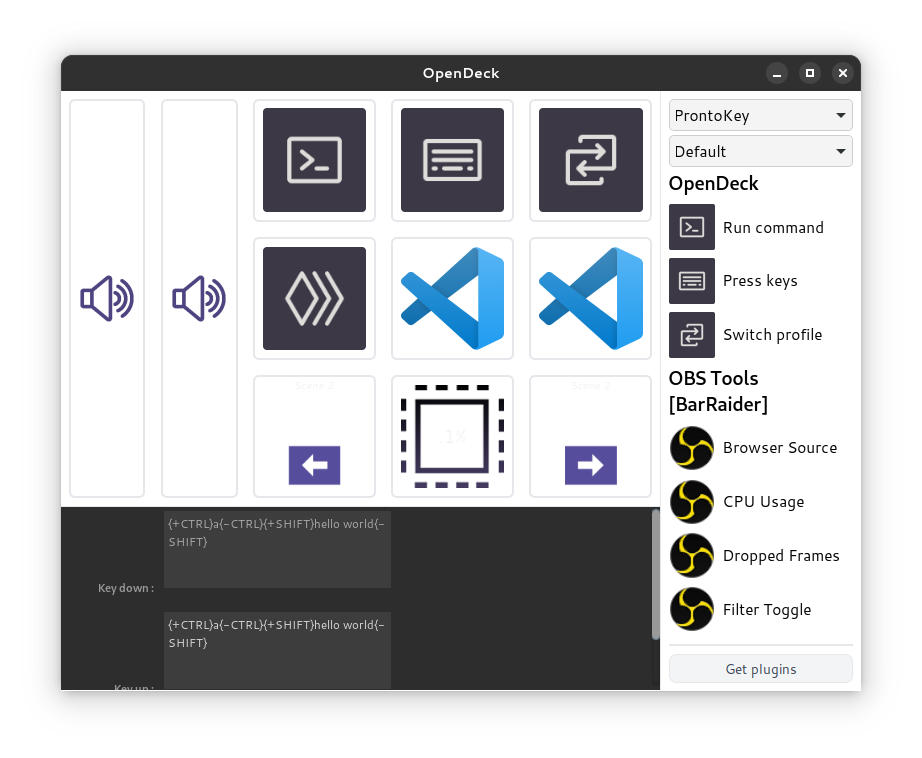
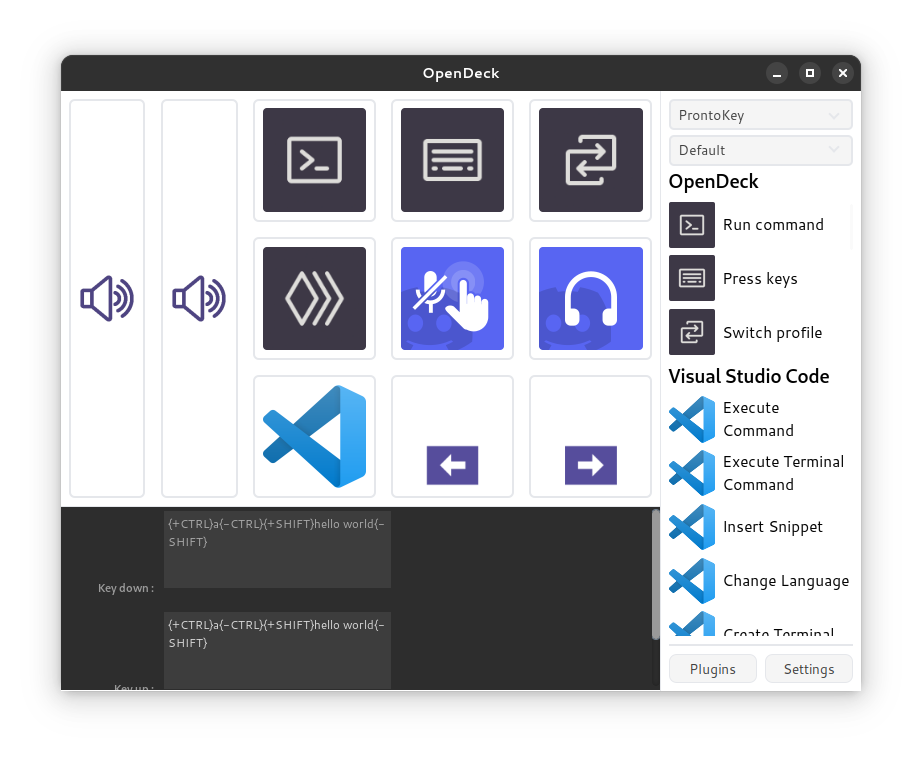
Implement dark theme

diff --git a/src/components/SettingsView.svelte b/src/components/SettingsView.svelte
@@ -6,30 +6,44 @@
 	import Tooltip from "./Tooltip.svelte";
 
 	let showPopup = false;
+
+	settings.subscribe((settings) => {
+		if (settings) updateTheme(settings.darktheme);
+	});
+
+	function updateTheme(darktheme: boolean) {
+		if (darktheme) {
+			document.documentElement.classList.add("dark");
+		} else {
+			document.documentElement.classList.remove("dark");
+		}
+	}
 </script>
 
 <button
-	class="ml-2 mt-2 p-1 w-1/2 text-sm text-gray-700 bg-gray-100 border rounded-lg"
+	class="ml-2 mt-2 p-1 w-1/2 text-sm text-neutral-700 dark:text-neutral-300 bg-neutral-100 dark:bg-neutral-700 border dark:border-neutral-600 rounded-lg"
 	on:click={() => showPopup = true}
 >
 	Settings
 </button>
 
 <Popup show={showPopup}>
-	<button class="mr-2 my-1 float-right text-xl" on:click={() => showPopup = false}> ✕ </button>
-	<h2 class="m-2 font-semibold text-xl"> Settings </h2>
+	<button class="mr-2 my-1 float-right text-xl dark:text-neutral-300" on:click={() => showPopup = false}> ✕ </button>
+	<h2 class="m-2 font-semibold text-xl dark:text-neutral-300"> Settings </h2>
 	{#if $settings}
 		<div class="flex flex-row items-center m-2 space-x-2">
-			<span> Language: </span>
-			<select bind:value={$settings.language}>
-				<option value="en"> English </option>
-				<option value="es"> Español </option>
-				<option value="zh_CN"> 中文 </option>
-				<option value="fr"> Français </option>
-				<option value="de"> Deutsch </option>
-				<option value="ja"> 日本語 </option>
-				<option value="ko"> 韓国語 </option>
-			</select>
+			<span class="dark:text-neutral-400"> Language: </span>
+			<div class="select-wrapper">
+				<select bind:value={$settings.language} class="w-32">
+					<option value="en"> English </option>
+					<option value="es"> Español </option>
+					<option value="zh_CN"> 中文 </option>
+					<option value="fr"> Français </option>
+					<option value="de"> Deutsch </option>
+					<option value="ja"> 日本語 </option>
+					<option value="ko"> 韓国語 </option>
+				</select>
+			</div>
 			<Tooltip>
 				OpenDeck itself is not yet translated.
 				Changing this setting will translate the text from installed plugins into your language for those that support it.
@@ -37,13 +51,18 @@
 		</div>
 
 		<div class="flex flex-row items-center m-2 space-x-2">
-			<span> Autolaunch: </span>
+			<span class="dark:text-neutral-400"> Autolaunch: </span>
 			<input type="checkbox" bind:checked={$settings.autolaunch} />
 			<Tooltip> If this option is enabled, OpenDeck will automatically start at login. </Tooltip>
 		</div>
+
+		<div class="flex flex-row items-center m-2 space-x-2">
+			<span class="dark:text-neutral-400"> Dark theme: </span>
+			<input type="checkbox" bind:checked={$settings.darktheme} />
+		</div>
 	{/if}
 	<button
-		class="ml-2 mt-2 px-2 py-1 text-sm text-gray-700 bg-gray-100 border rounded-lg"
+		class="ml-2 mt-2 px-2 py-1 text-sm text-neutral-700 dark:text-neutral-300 bg-neutral-100 dark:bg-neutral-700 border dark:border-neutral-600 rounded-lg"
 		on:click={() => invoke("open_config_directory")}
 	>
 		Open config directory

diff --git a/src/components/PluginManager.svelte b/src/components/PluginManager.svelte
@@ -40,22 +40,22 @@
 </script>
 
 <button
-	class="mt-2 p-1 w-1/2 text-sm text-gray-700 bg-gray-100 border rounded-lg"
+	class="mt-2 p-1 w-1/2 text-sm text-neutral-700 dark:text-neutral-300 bg-neutral-100 dark:bg-neutral-700 border dark:border-neutral-600 rounded-lg"
 	on:click={() => showPopup = true}
 >
 	Plugins
 </button>
 
 <Popup show={showPopup}>
-	<button class="mr-2 my-1 float-right text-xl" on:click={() => showPopup = false}> ✕ </button>
-	<h2 class="m-2 font-semibold text-xl"> Manage plugins </h2>
+	<button class="mr-2 my-1 float-right text-xl dark:text-neutral-300" on:click={() => showPopup = false}> ✕ </button>
+	<h2 class="m-2 font-semibold text-xl dark:text-neutral-300"> Manage plugins </h2>
 
-	<h2 class="mx-2 mt-6 mb-2 text-lg"> Installed plugins </h2>
+	<h2 class="mx-2 mt-6 mb-2 text-lg dark:text-neutral-400"> Installed plugins </h2>
 	<div class="grid grid-cols-2 lg:grid-cols-3 xl:grid-cols-4">
 		{#each plugins as plugin}
-			<div class="flex flex-row items-center m-2 p-2 bg-gray-200 rounded-md">
+			<div class="flex flex-row items-center m-2 p-2 bg-neutral-200 dark:bg-neutral-700 rounded-md">
 				<img src={"http://localhost:57118/" + plugin.icon} class="w-24 rounded-md" alt={plugin.name} />
-				<div class="ml-4 mr-2">
+				<div class="ml-4 mr-2 dark:text-neutral-300">
 					<p>
 						<span class="font-semibold">
 							{($localisations && $localisations[plugin.id] && $localisations[plugin.id].Name) ? $localisations[plugin.id].Name : plugin.name}
@@ -77,14 +77,14 @@
 	</div>
 
 	{#await fetch("https://plugins.amansprojects.com/catalogue.json")}
-		<h2 class="mx-2 mt-6 mb-2 text-md"> Loading plugin list... </h2>
+		<h2 class="mx-2 mt-6 mb-2 text-md dark:text-neutral-400"> Loading plugin list... </h2>
 	{:then res}
 		{#await res.json() then entries}
-			<h2 class="mx-2 mt-6 mb-2 text-lg"> Plugin store </h2>
+			<h2 class="mx-2 mt-6 mb-2 text-lg dark:text-neutral-400"> Plugin store </h2>
 			<div class="flex flex-row m-2">
 				<input
 					bind:value={search}
-					class="grow p-2 rounded-md outline-none"
+					class="grow p-2 dark:text-neutral-300 dark:bg-neutral-700 rounded-md outline-none"
 					placeholder="Search plugins"
 					type="search"
 					spellcheck="false"
@@ -93,11 +93,11 @@
 			<div class="grid grid-cols-2 lg:grid-cols-3 xl:grid-cols-4">
 				{#each entries as plugin}
 					<div
-						class="flex flex-row items-center m-2 p-2 bg-gray-200 rounded-md"
+						class="flex flex-row items-center m-2 p-2 bg-neutral-200 dark:bg-neutral-700 rounded-md"
 						class:hidden={!plugin.name.toUpperCase().includes(search.toUpperCase())}
 					>
 						<img src="https://plugins.amansprojects.com/icons/{plugin.id}.png" class="w-24 rounded-md" alt={plugin.name} />
-						<div class="ml-4 mr-2">
+						<div class="ml-4 mr-2 dark:text-neutral-300">
 							<p class="font-semibold"> {plugin.name} </p>
 							{plugin.author}
 						</div>

diff --git a/src/components/ProfileSelector.svelte b/src/components/ProfileSelector.svelte
@@ -55,20 +55,22 @@
 	});
 </script>
 
-<select bind:value class="mt-1 w-full">
-	{#each profiles as profile}
-		<option value={profile}> {profile} </option>
-	{/each}
-	<option value="opendeck_edit_profiles"> Edit... </option>
-</select>
+<div class="select-wrapper">
+	<select bind:value class="mt-1 w-full">
+		{#each profiles as profile}
+			<option value={profile}> {profile} </option>
+		{/each}
+		<option value="opendeck_edit_profiles"> Edit... </option>
+	</select>
+</div>
 
 <Popup show={showPopup}>
-	<button class="mr-1 float-right text-xl" on:click={() => showPopup = false}> ✕ </button>
-	<h2 class="text-xl font-semibold"> {device.name} </h2>
+	<button class="mr-1 float-right text-xl dark:text-neutral-300" on:click={() => showPopup = false}> ✕ </button>
+	<h2 class="text-xl font-semibold dark:text-neutral-300"> {device.name} </h2>
 
 	<div class="flex flex-row mt-2 mb-1">
-		<input class="grow p-2 rounded-l-md outline-none" placeholder="Profile name" bind:value={nameInput} />
-		<button class="px-4 bg-gray-200 rounded-r-md" on:click={async () => {
+		<input class="grow p-2 dark:text-neutral-300 dark:bg-neutral-700 rounded-l-md outline-none" placeholder="Profile name" bind:value={nameInput} />
+		<button class="px-4 dark:text-neutral-300 bg-neutral-200 dark:bg-neutral-900 rounded-r-md" on:click={async () => {
 			await setProfile(nameInput);
 			value = nameInput;
 			nameInput = "";
@@ -77,10 +79,10 @@
 	</div>
 
 	<div class="space-y-2 divide-y">
-		{#each profiles as profile, i}
+		{#each profiles as profile}
 			<div class="pt-2">
 				<input type="radio" bind:group={value} value={profile} />
-				{profile}
+				<span class="dark:text-neutral-400"> {profile} </span>
 				{#if profile != value}
 					<!-- svelte-ignore a11y-no-noninteractive-element-interactions -->
 					<img

diff --git a/src/components/MultiActionView.svelte b/src/components/MultiActionView.svelte
@@ -44,16 +44,16 @@
 	context = null!;
 </script>
 
-<div class="px-6 pt-6 pb-4">
+<div class="px-6 pt-6 pb-4 dark:text-neutral-300">
 	<button class="float-right text-xl" on:click={() => $inspectedMultiAction = null}> ✕ </button>
 	<h1 class="font-semibold text-2xl"> Multi Action </h1>
 </div>
 
 <div class="flex flex-col h-80 overflow-scroll">
 	{#each slot as instance, index}
-		<div class="flex flex-row items-center mx-4 my-1 bg-gray-100 rounded-md">
+		<div class="flex flex-row items-center mx-4 my-1 bg-neutral-100 dark:bg-neutral-900 rounded-md">
 			<Key slot={[instance]} {context} active={false} scale={3/4} />
-			<p class="ml-4 text-xl"> {instance.action.name} </p>
+			<p class="ml-4 text-xl dark:text-neutral-400"> {instance.action.name} </p>
 			<!-- svelte-ignore a11y-no-noninteractive-element-interactions -->
 			<img
 				src="/rubbish.png"
@@ -64,11 +64,11 @@
 		</div>
 	{/each}
 	<div
-		class="flex flex-row items-center mx-4 mt-1 mb-4 bg-gray-100 border-2 border-dashed rounded-md"
+		class="flex flex-row items-center mx-4 mt-1 mb-4 bg-neutral-100 dark:bg-neutral-900 border-2 border-dashed dark:border-neutral-700 rounded-md"
 		on:dragover={handleDragOver} on:drop={handleDrop}
 		role="cell" tabindex="-1"
 	>
 		<img src="/cube.png" class="m-2 w-24 rounded-xl" alt="Add new action" />
-		<p class="ml-4 text-xl text-gray-500"> Drop actions here </p>
+		<p class="ml-4 text-xl text-neutral-500"> Drop actions here </p>
 	</div>
 </div>

diff --git a/src/components/Slider.svelte b/src/components/Slider.svelte
@@ -58,7 +58,7 @@
 </script>
 
 <div
-	class="relative flex items-center m-2 w-20 h-144 border-2 rounded-md select-none"
+	class="relative flex items-center m-2 w-20 h-144 border-2 dark:border-neutral-700 rounded-md select-none"
 	on:dragover on:drop
 	draggable on:dragstart
 	role="cell" tabindex="-1"
@@ -94,7 +94,7 @@
 			<img
 				src="/alert.png"
 				alt="Alert"
-				class="absolute top-0 left-0 p-1 w-full aspect-square top-[50%] -translate-y-1/2 transition-opacity duration-1000"
+				class="absolute left-0 p-1 w-full aspect-square top-[50%] -translate-y-1/2 transition-opacity duration-1000"
 				class:opacity-0={showAlert == 2}
 			/>
 		{/if}
@@ -102,7 +102,7 @@
 			<img
 				src="/ok.png"
 				alt="OK"
-				class="absolute top-0 left-0 p-1 w-full aspect-square top-[50%] -translate-y-1/2 transition-opacity duration-1000"
+				class="absolute left-0 p-1 w-full aspect-square top-[50%] -translate-y-1/2 transition-opacity duration-1000"
 				class:opacity-0={showOk == 2}
 			/>
 		{/if}

diff --git a/src/components/PropertyInspectorView.svelte b/src/components/PropertyInspectorView.svelte
@@ -98,11 +98,11 @@
 	$: instances = profile.keys.reduce((prev, current) => prev.concat(current), []).concat(profile.sliders.reduce((prev, current) => prev.concat(current), []));
 </script>
 
-<div class="grow overflow-scroll bg-white border-t" bind:this={iframeContainer}>
+<div class="grow overflow-scroll bg-white dark:bg-neutral-900 border-t dark:border-neutral-700 z-20" bind:this={iframeContainer}>
 	<button
 		bind:this={iframeClosePopup}
 		on:click={() => closePopup(iframePopupsOpen[iframePopupsOpen.length - 1])}
-		class="absolute top-2 right-2 text-2xl font-bold hidden"
+		class="absolute top-2 right-2 text-2xl dark:text-neutral-300 font-bold hidden"
 	>
 		✕
 	</button>

diff --git a/src/components/DeviceSelector.svelte b/src/components/DeviceSelector.svelte
@@ -28,10 +28,12 @@
 	listen("devices", ({ payload }: { payload: { [id: string]: DeviceInfo }}) => devices = payload);
 </script>
 
-<select bind:value class="w-full">
-	<option value="" disabled selected> Choose a device... </option>
+<div class="select-wrapper">
+	<select bind:value class="w-full">
+		<option value="" disabled selected> Choose a device... </option>
 
-	{#each Object.entries(devices).sort() as [ id, device ]}
-		<option value={id}> {device.name} </option>
-	{/each}
-</select>
+		{#each Object.entries(devices).sort() as [ id, device ]}
+			<option value={id}> {device.name} </option>
+		{/each}
+	</select>
+</div>

diff --git a/src/routes/+page.svelte b/src/routes/+page.svelte
@@ -34,7 +34,7 @@
 	{/if}
 </div>
 
-<div class="flex flex-col p-2 grow max-w-[18rem] h-full border-l">
+<div class="flex flex-col p-2 grow max-w-[18rem] h-full border-l dark:border-neutral-700">
 	{#if !$inspectedMultiAction}
 		<DeviceSelector bind:device={selectedDevice} />
 		{#if selectedDevice}
@@ -42,7 +42,7 @@
 		{/if}
 	{/if}
 	<ActionList bind:this={actionList} />
-	<hr class="mt-2 border" />
+	<hr class="mt-2 border dark:border-neutral-700" />
 	<div class="flex flex-row">
 		<PluginManager {actionList} />
 		<SettingsView />

diff --git a/src/app.css b/src/app.css
@@ -1,3 +1,25 @@
 @tailwind base;
 @tailwind components;
 @tailwind utilities;
+
+select {
+	@apply
+		appearance-none
+		px-2 py-1
+		text-sm text-neutral-700 dark:text-neutral-300
+		bg-neutral-100 dark:bg-neutral-700
+		border-2 dark:border-neutral-900 outline-none
+		cursor-pointer
+}
+
+.select-wrapper {
+	@apply relative
+}
+
+.select-wrapper::after {
+	@apply
+		absolute right-4 top-[47.5%] -translate-y-1/2
+		w-2 h-2 rotate-45
+		border-r-2 border-b-2
+		pointer-events-none content-['_']
+}

diff --git a/src/components/ActionList.svelte b/src/components/ActionList.svelte
@@ -25,7 +25,7 @@
 
 <div class="grow mt-1 overflow-auto">
 	{#each Object.entries(categories) as [ name, actions ]}
-		<h3 class="text-xl font-semibold"> {name} </h3>
+		<h3 class="text-xl font-semibold dark:text-neutral-300"> {name} </h3>
 		{#each actions as action}
 			{#if action.visible_in_action_list}
 				<ListedAction {action} localisation={localiseAction(action, $localisations)} />

diff --git a/src/components/Popup.svelte b/src/components/Popup.svelte
@@ -3,7 +3,7 @@
 </script>
 
 {#if show}
-	<div class="absolute top-0 left-0 m-2 p-4 w-[calc(100%-1rem)] h-[calc(100%-1rem)] bg-gray-100 border-2 rounded-lg overflow-scroll">
+	<div class="absolute top-0 left-0 m-2 p-4 w-[calc(100%-1rem)] h-[calc(100%-1rem)] bg-neutral-100 dark:bg-neutral-800 border-2 dark:border-neutral-700 rounded-lg overflow-scroll z-30">
 		<slot />
 	</div>
 {/if}

diff --git a/src/components/Tooltip.svelte b/src/components/Tooltip.svelte
@@ -10,7 +10,7 @@
 >
 	<img src="/question.png" class="w-6" alt="Help" />
 	{#if show}
-		<div class="absolute mt-2 p-2 w-96 text-xs bg-gray-100 border-2 rounded-lg">
+		<div class="absolute mt-2 p-2 w-96 text-xs dark:text-neutral-300 bg-neutral-100 dark:bg-neutral-700 border-2 dark:border-neutral-600 rounded-lg">
 			<slot />
 		</div>
 	{/if}
